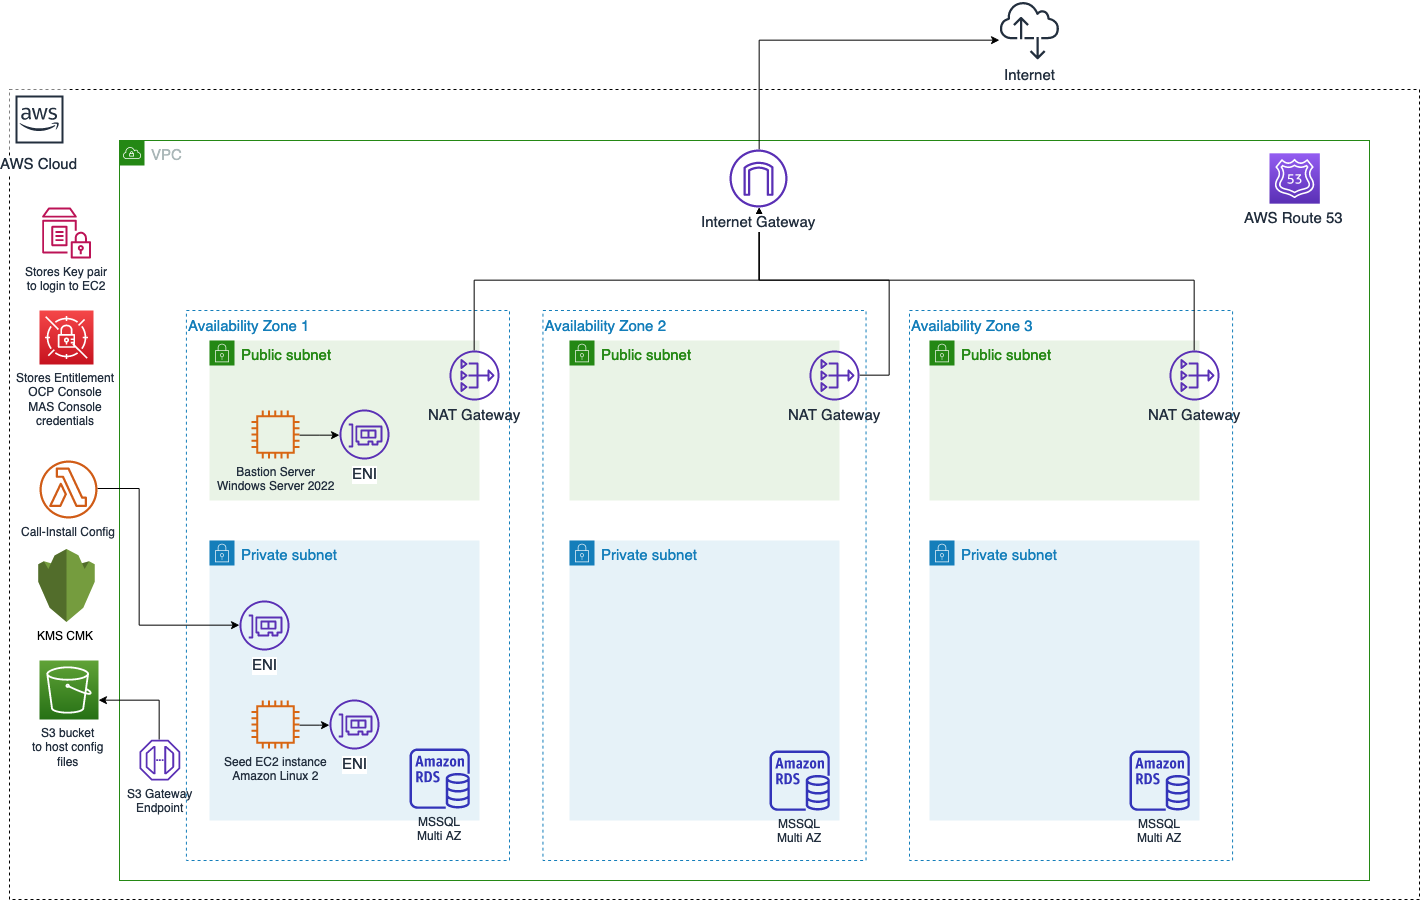
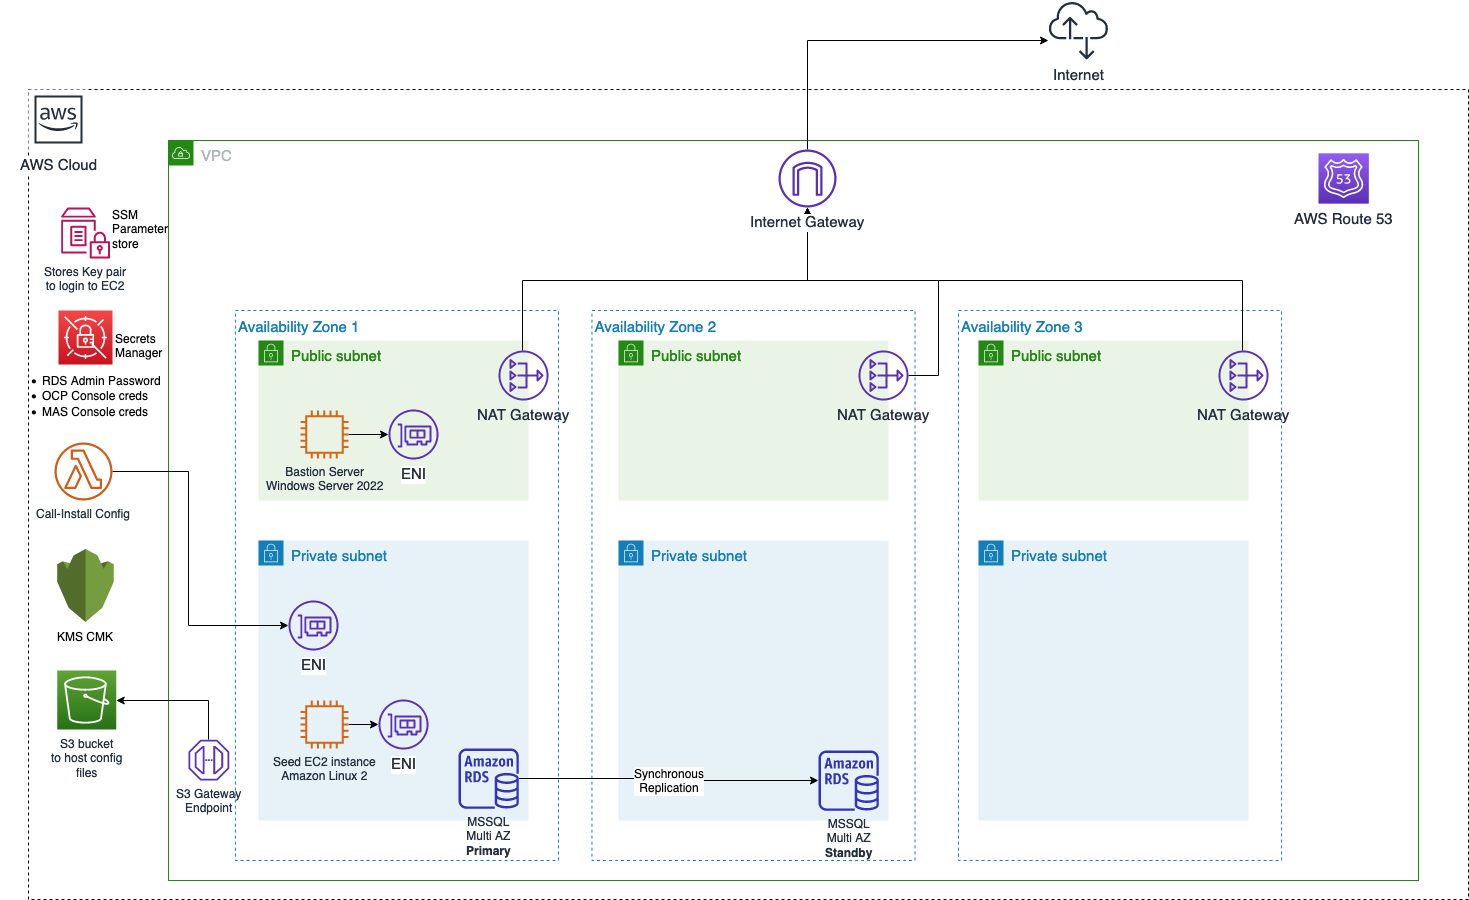
Updates to minimize parameter inputs to mainTemplate.yaml and securing with Autogenerated RDS DB password

diff --git a/README.md b/README.md
@@ -1,5 +1,5 @@
 # Installing Maximo Application Suite 8.x on a private OpenShift Container Platform cluster
-This repository is part of an AWS Workshop, "IBM Maximo Application Suite 8.x on AWS". For detailed instructions please follow the workshop.
+This repository is part of an AWS Workshop, [IBM Maximo Application Suite 8.x on AWS](https://catalog.us-east-1.prod.workshops.aws/workshops/78554b88-0cd8-45a1-b9ee-2c1078aa6995/en-US). For detailed instructions please follow the workshop.
 ## Note
 IBM Maximo is a commercial off the shelf (COTS) licensed software. You will need the below prior to proceeding with the installation.
 * An IBM Container registry key, aka. IBM Entitlement **key** that allows you access to download necessary container images for the installation.
@@ -71,7 +71,7 @@ The Alert Manager requires an RWX (Read Write Many) storage class. Follow the co
 
 ### Deploying the Maximo Application Suite on OpenShift Cluster
 ```
-./ibm-mas-on-aws/scripts/deploy_mascore.sh "{IBM_ENTITLEMENT_KEY}" "{UDS_CONTACT_EMAIL}" "{UDS_CONTACT_FIRSTNAME}" "{UDS_CONTACT_LASTNAME}" "{SLS_LICENSE_ID}" 
+./ibm-mas-on-aws/scripts/deploy_mascore.sh "IBM_ENTITLEMENT_KEY" 
 ```
 |Parameter|Description|
 |--|--|
@@ -105,6 +105,10 @@ Follow the next steps in the AWS workshop to configure Maximo Manage.
 
 ## Cleanup
 In order to cleanup, we will first remove the EFS filesystem that was created and then destroy the OpenShift cluster.
+
+### Remove Deletion protection from RDS Instance
+Access the RDS console and select the RDS instance created by the CFN Template. Click on ``Modify`` and uncheck the checkbox ``Enable Deletion Protection`` and then click on ``Apply immediately``.
+
 ### Removing the EFS Filesystem
 ```
 ./ibm-mas-on-aws/scripts/delete_rwx_efs.sh CLUSTER_NAME
